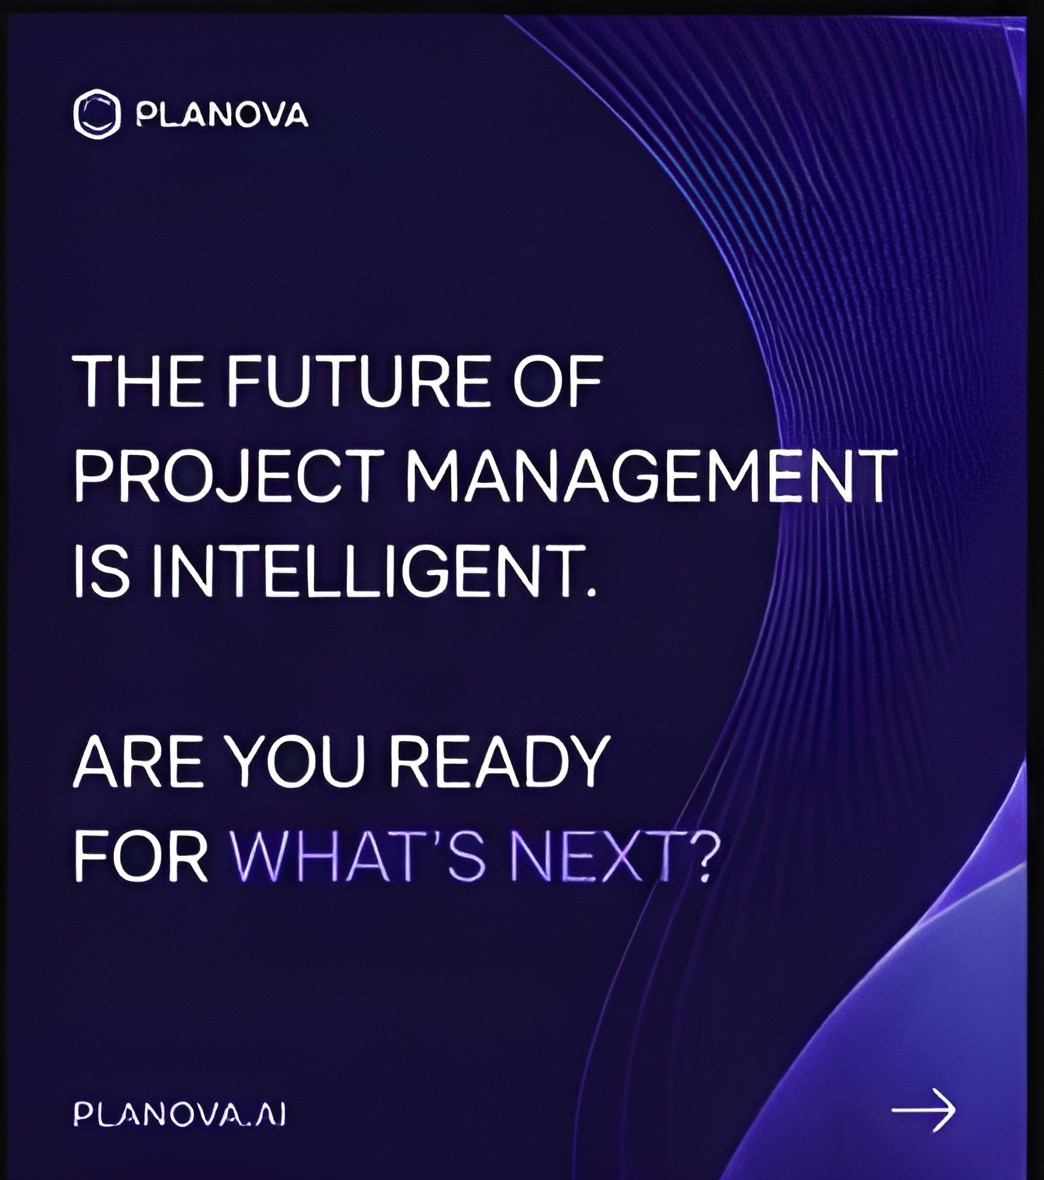
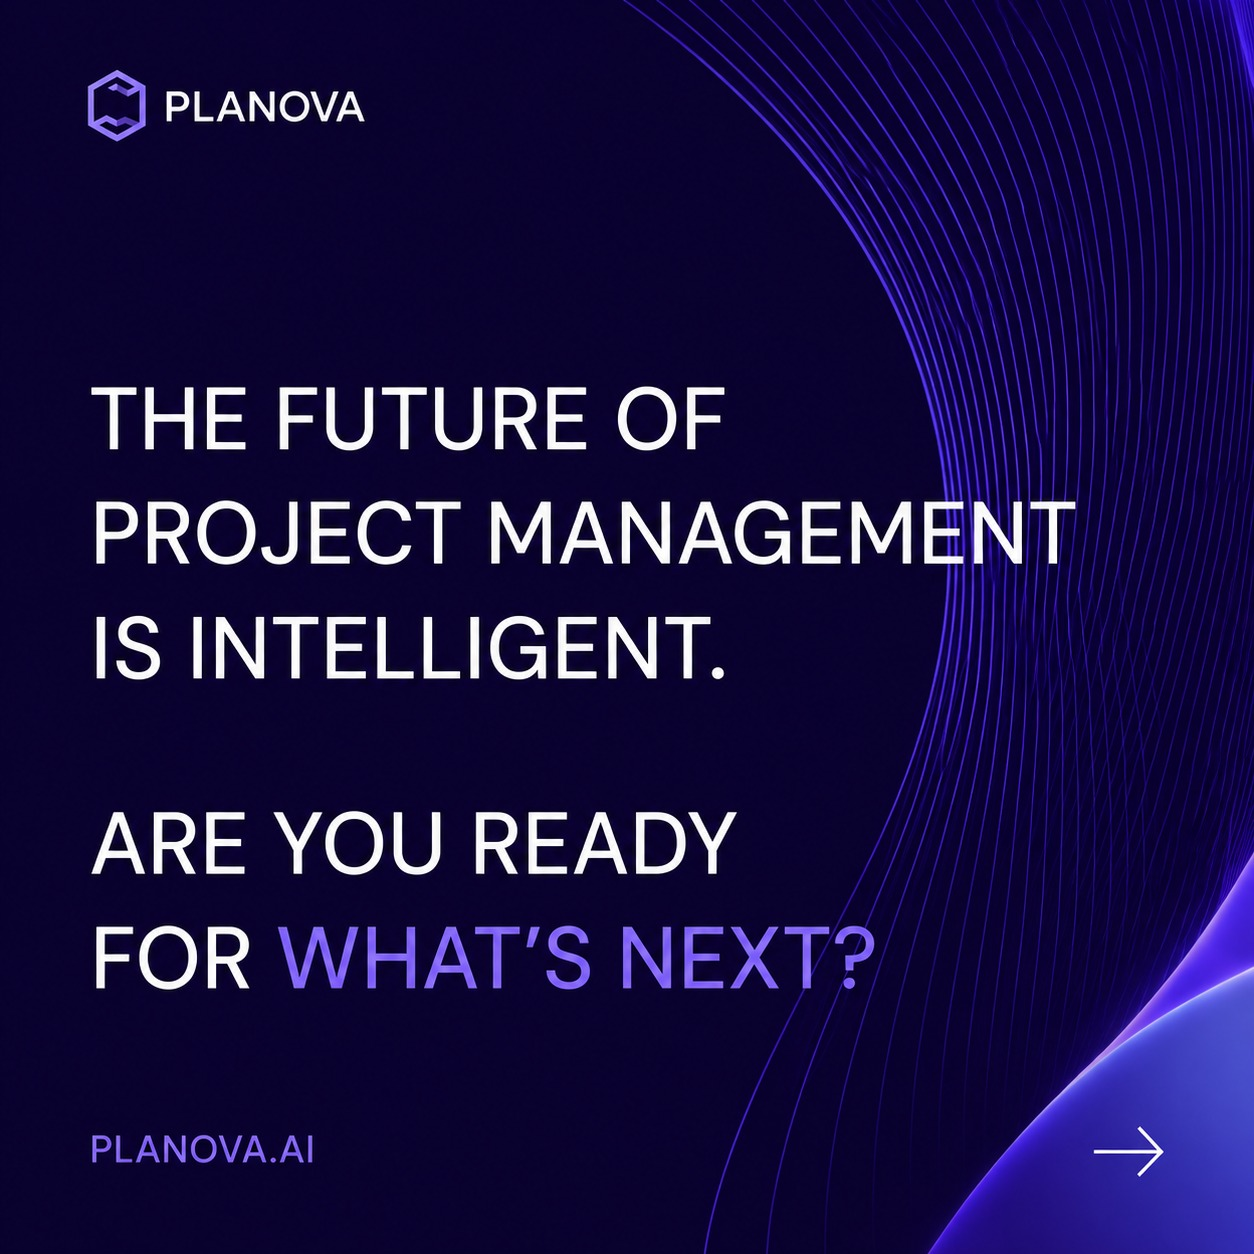
Replace Planova slides with full-res square (Instagram-post) originals
Swapped all 9 planova-*.jpg for the real originals the user provided.
6 of 9 were already 1254x1254; the other 3 (portrait/landscape) were
cropped to match:
- planova-1: kept the full headline + caption, trimmed empty space above
  the logo rather than cutting into either block of text.
- planova-4: same approach — full 4-line headline kept, small corner
  logo trimmed instead.
- planova-8: cropped from the left edge so both logo instances and the
  full 3-line headline stay intact, at the cost of the laptop mockup's
  right edge.
All 9 resized to a uniform 1254x1254 and the carousel viewport's
aspect-ratio updated from 261/323 to 1/1 to match.

diff --git a/work/social-carousels.html b/work/social-carousels.html
@@ -109,8 +109,8 @@
       <h2 class="sc-project__title">AI-powered project management</h2>
       <p class="sc-project__text">A violet-on-black system for an AI project management tool. Gradient orbs and glass panels carry the "clarity" message across nine slides, from the hook to the feature breakdown to the close.</p>
     </div>
-    <div class="carousel reveal" data-aspect="261/323">
-      <div class="carousel__viewport" style="aspect-ratio:261/323">
+    <div class="carousel reveal" data-aspect="1/1">
+      <div class="carousel__viewport" style="aspect-ratio:1/1">
         <div class="carousel__track">
           <img src="../assets/work/social-carousels/planova-1.jpg" alt="Planova carousel slide 1 of 9" loading="lazy">
           <img src="../assets/work/social-carousels/planova-2.jpg" alt="Planova carousel slide 2 of 9" loading="lazy">
